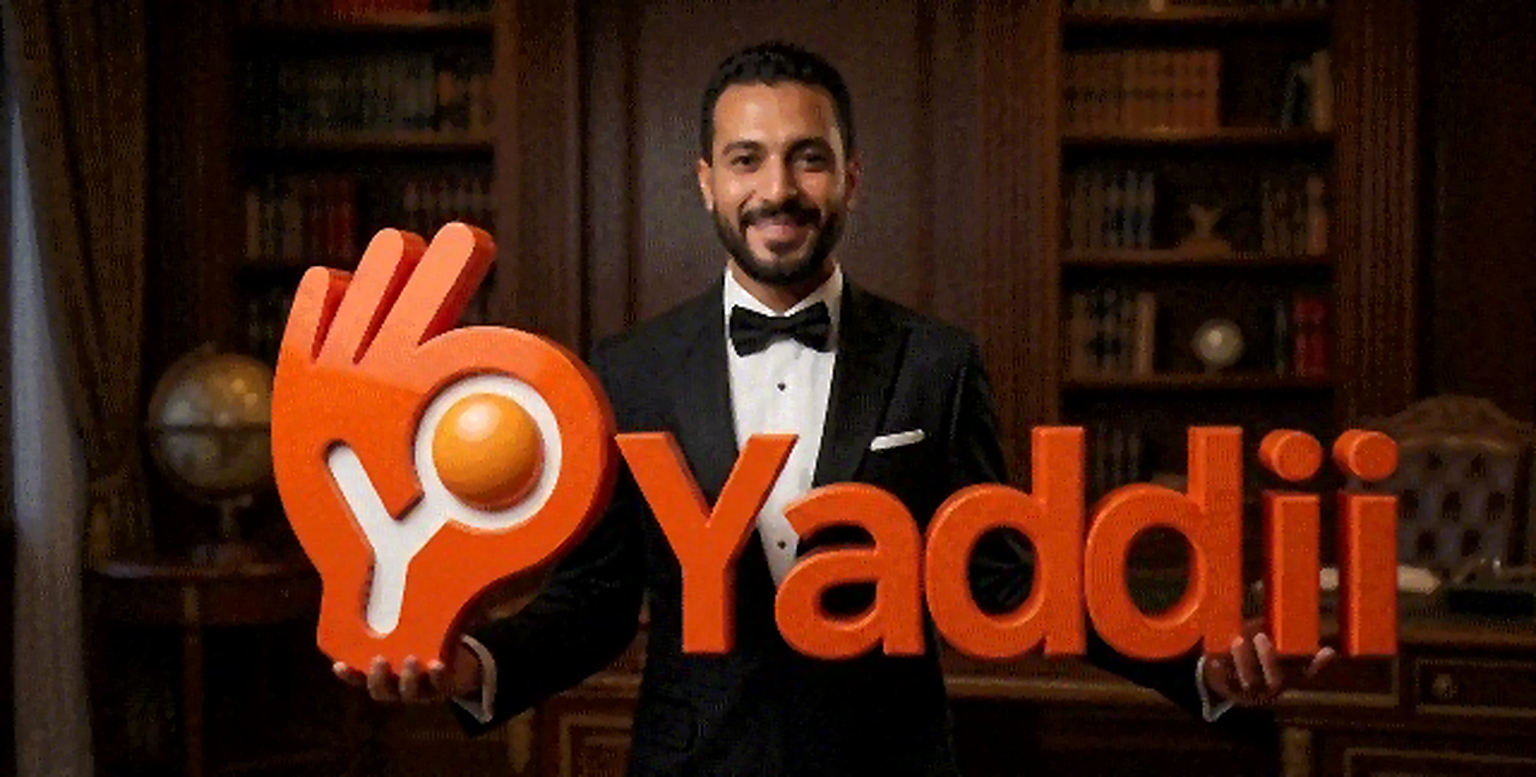
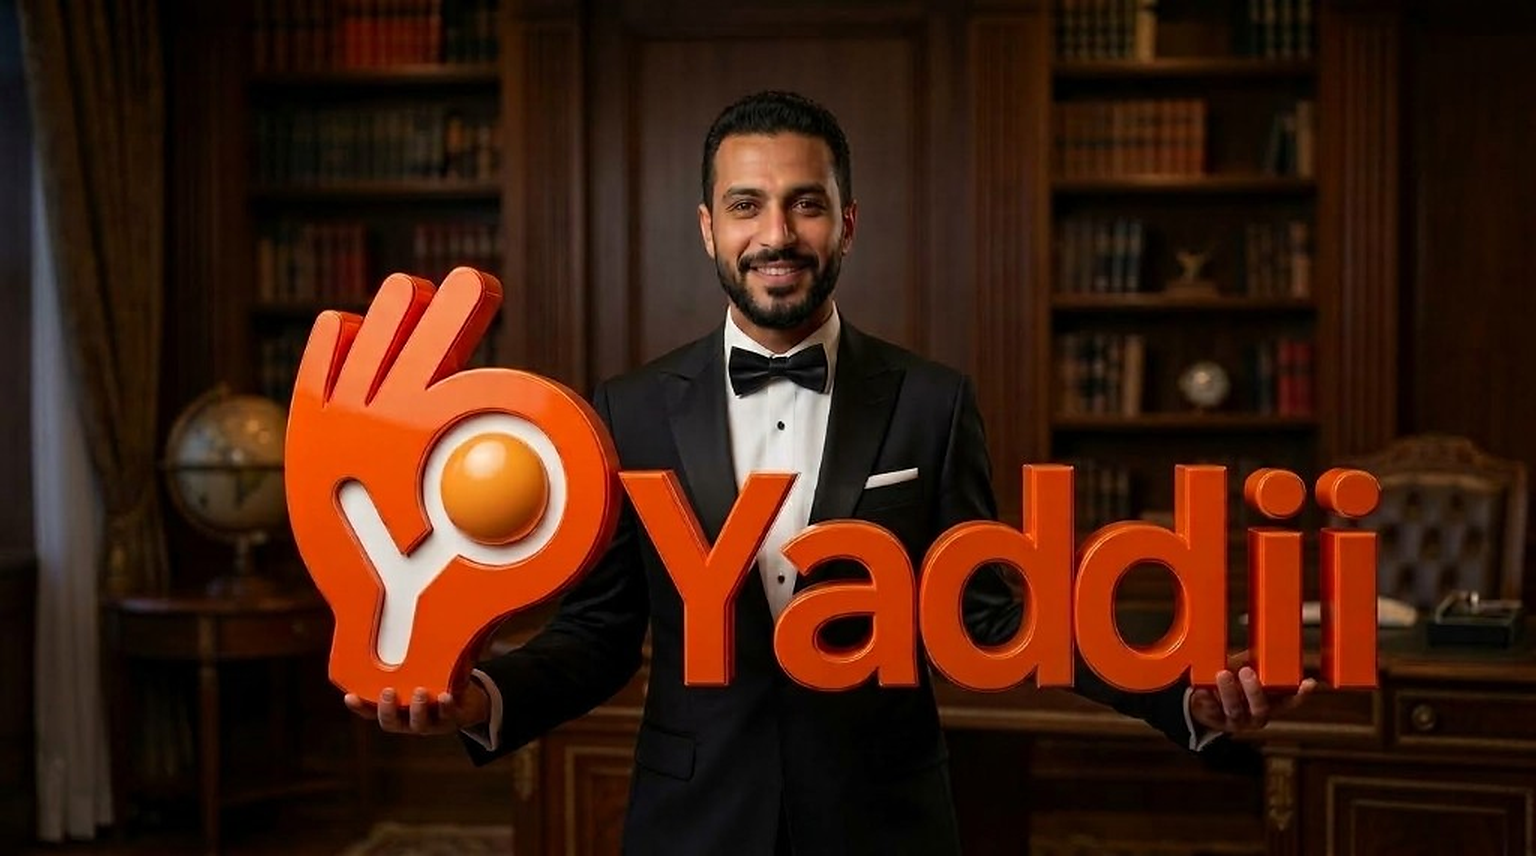
Replace About hero with new high-quality Yaddii brand image.

diff --git a/src/components/AboutHeroBanner.tsx b/src/components/AboutHeroBanner.tsx
@@ -2,6 +2,10 @@ const ABOUT_HERO_PNG = "/marketing/yaddii-about-banner.png";
 const ABOUT_HERO_WEBP = "/marketing/yaddii-about-banner.webp";
 const ABOUT_HERO_JPG = "/marketing/yaddii-about-banner.jpg";
 
+/** Matches processed hero (1536×857 from 1024×571 source). */
+const HERO_WIDTH = 1536;
+const HERO_HEIGHT = 856;
+
 export default function AboutHeroBanner() {
   return (
     <div className="max-w-3xl mx-auto px-4 pt-2 md:pt-4 pb-2">
@@ -13,10 +17,10 @@ export default function AboutHeroBanner() {
           <img
             src={ABOUT_HERO_JPG}
             alt=""
-            width={1536}
-            height={777}
+            width={HERO_WIDTH}
+            height={HERO_HEIGHT}
             decoding="async"
-            className="w-full h-auto max-h-56 sm:max-h-64 md:max-h-80 object-cover object-[center_42%]"
+            className="w-full h-auto object-contain bg-[#1a120e]"
             sizes="(max-width: 768px) 100vw, 768px"
           />
         </picture>

diff --git a/scripts/import-about-hero.py b/scripts/import-about-hero.py
@@ -1,0 +1,36 @@
+from pathlib import Path
+
+from PIL import Image, ImageFilter
+
+SRC = Path(
+    r"C:\Users\alal1\.cursor\projects\c-Users-alal1-Desktop-egypt-market-public\assets"
+    r"\c__Users_alal1_AppData_Roaming_Cursor_User_workspaceStorage_0ce5efb3015f89bccf5ad09308cd3190_images"
+    r"_log-6c53825b-e665-4e33-a26d-ae46cec92528.jpg"
+)
+OUT = Path(__file__).resolve().parents[1] / "public" / "marketing"
+TARGET_W = 1536
+
+
+def main() -> None:
+    OUT.mkdir(parents=True, exist_ok=True)
+    im = Image.open(SRC).convert("RGB")
+    im.save(OUT / "source-frame.jpg", quality=98, subsampling=0)
+
+    if im.width < TARGET_W:
+        scale = TARGET_W / im.width
+        hero = im.resize((TARGET_W, int(im.height * scale)), Image.Resampling.LANCZOS)
+    else:
+        hero = im
+
+    hero = hero.filter(ImageFilter.UnsharpMask(radius=0.8, percent=105, threshold=3))
+
+    for stem in ("yaddii-about-banner", "yaddii-hero-still"):
+        hero.save(OUT / f"{stem}.jpg", quality=98, optimize=True, progressive=True, subsampling=0)
+        hero.save(OUT / f"{stem}.webp", quality=95, method=6)
+        hero.save(OUT / f"{stem}.png", optimize=True)
+
+    print("hero", hero.size, "->", OUT)
+
+
+if __name__ == "__main__":
+    main()
